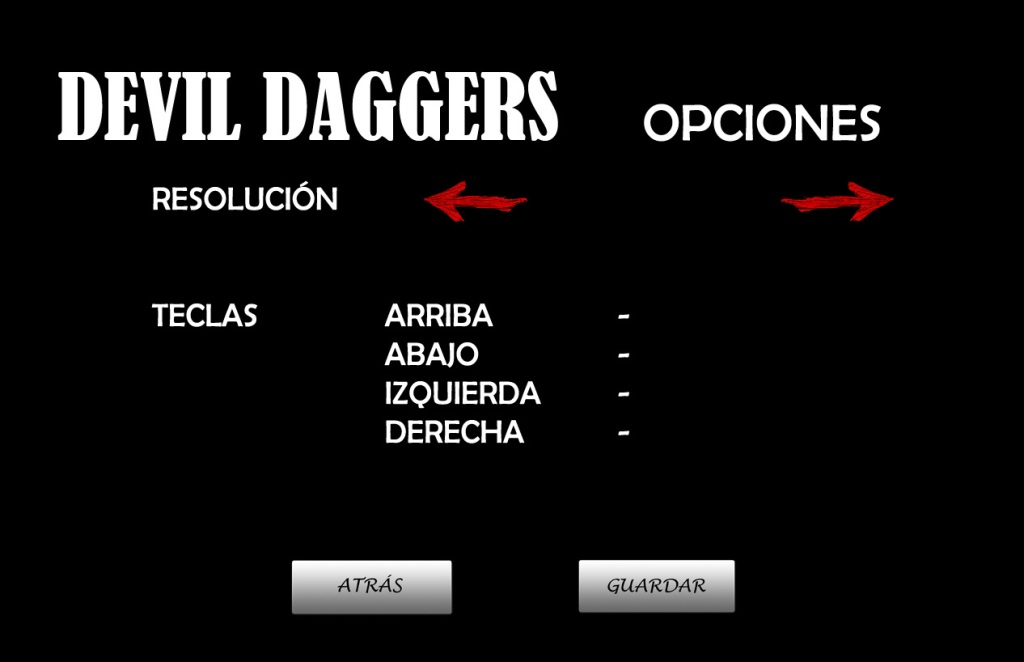
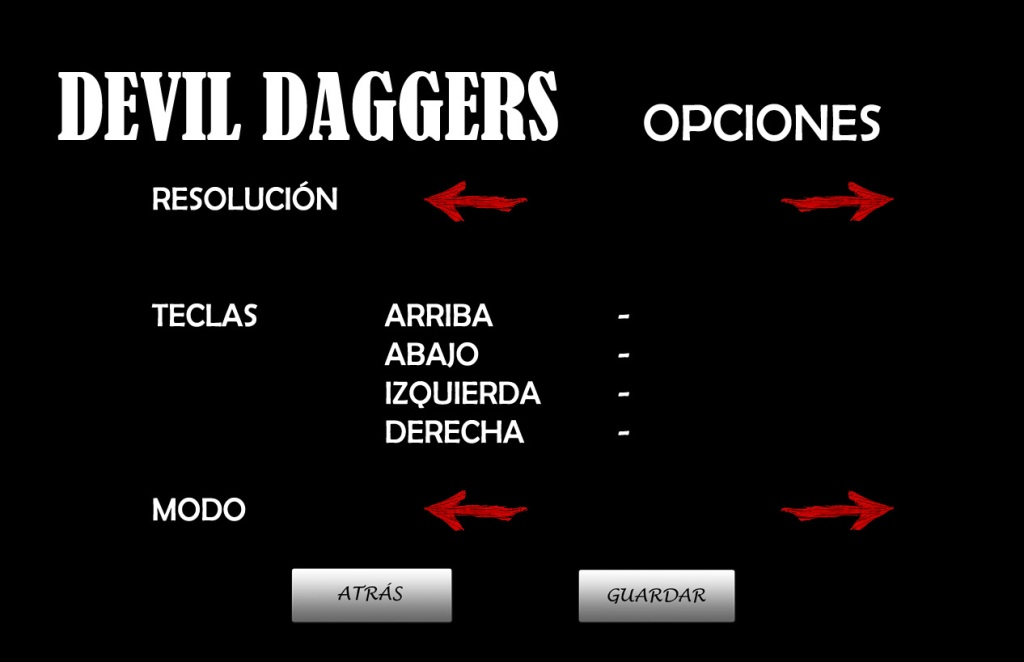
opciones

diff --git a/Codigo/Opciones.h b/Codigo/Opciones.h
@@ -18,6 +18,7 @@ public:
 	const string fich = "opciones.txt";
 
 	int resolucion = 1;
+	int modo = 1, aux_modo = 1;
 	int oldresolucion = 1;
 
 	const int resoluciones[5][2] = {
